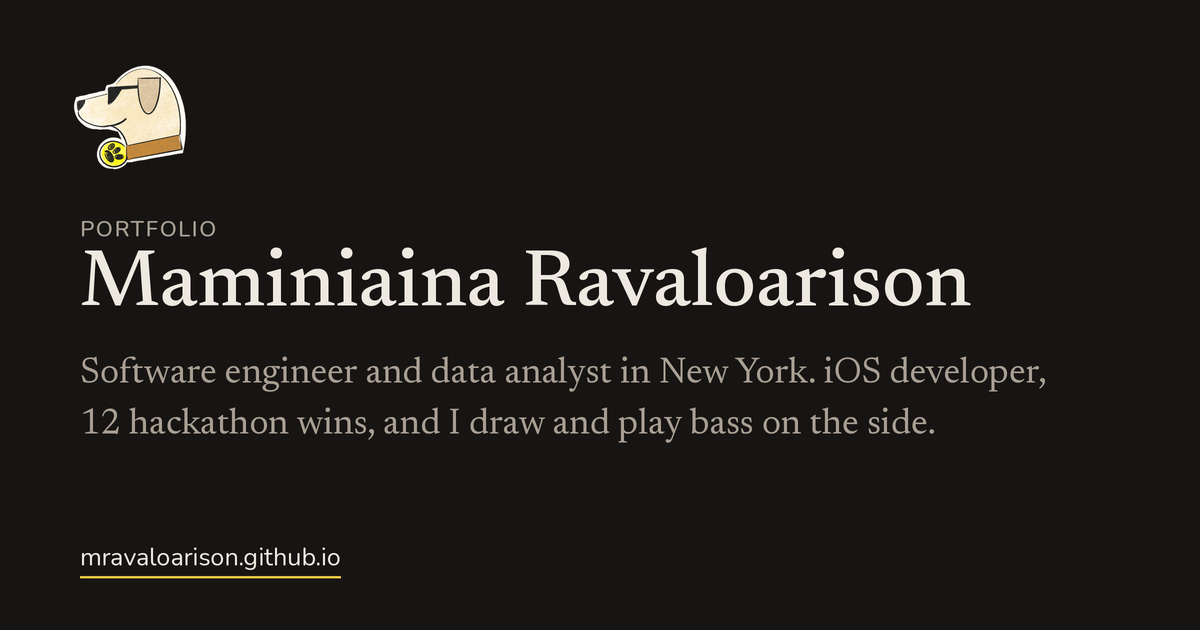
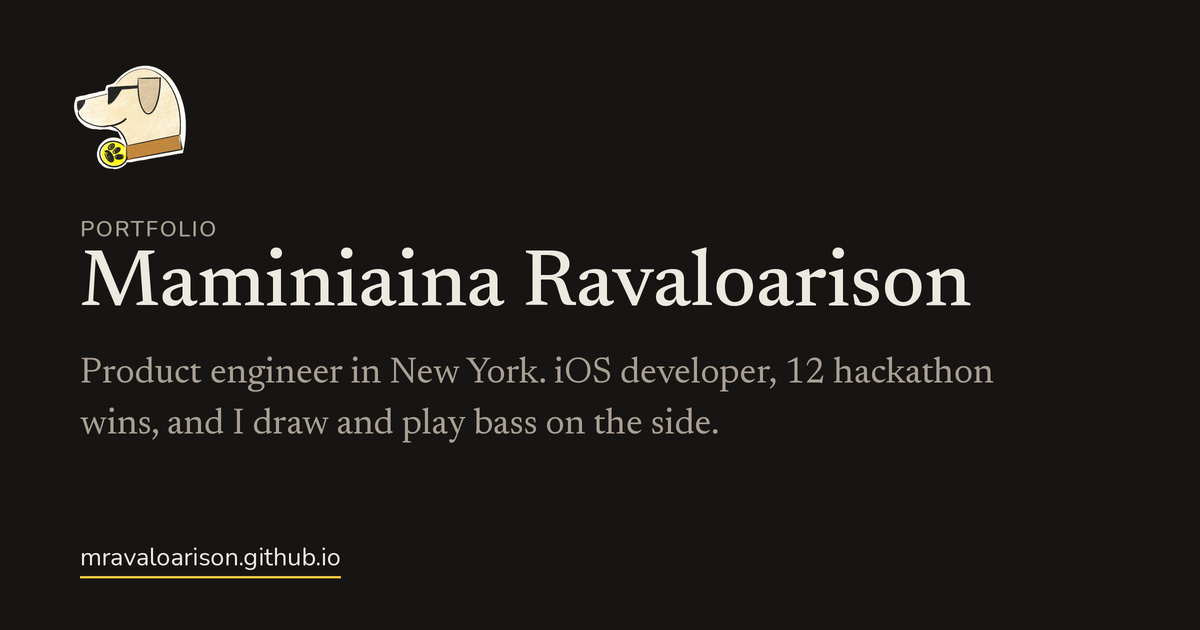
Title: Product engineer instead of software engineer and data analyst
The Short About line, the share card, the home and bio page titles and
descriptions, the site tagline and description, and the Person's jobTitle
and one-liner (JSON-LD, llms.txt) now say product engineer. The day job,
Junior Data Analyst at Monroe, stays under Experience and in the bio.

Claude-Session: https://claude.ai/code/session_01HxKcS5wnQzvR66vCB9wedF

Changed region(s): [[0.0617, 0.5429, 0.8633, 0.6937]]

diff --git a/scripts/make-icons.py b/scripts/make-icons.py
@@ -48,7 +48,7 @@ PAPER = (247, 242, 234)        # warm paper behind the iPhone icon
 OG = ROOT / "assets" / "social" / "og-default.png"
 FONTS = ROOT / "assets" / "fonts"
 CARD_NAME = "Maminiaina Ravaloarison"
-CARD_LINE = ("Software engineer and data analyst in New York. iOS developer, "
+CARD_LINE = ("Product engineer in New York. iOS developer, "
              "12 hackathon wins, and I draw and play bass on the side.")
 CARD_URL = "mravaloarison.github.io"
 # the site's colours (--bg, --text, --text-secondary, --accent)

diff --git a/CLAUDE.md b/CLAUDE.md
@@ -8,7 +8,9 @@ before making changes and follow it over your own defaults.
 
 - **Full name:** Maminiaina Ravaloarison
 - **Display name:** Maminiaina Ravaloarison (goes by Mami)
-- **Role:** Software Engineer (currently Junior Data Analyst, Monroe University)
+- **Role:** Product Engineer (Mami's title since November 2026, in place of
+  "software engineer and data analyst"; the day job is still Junior Data
+  Analyst at Monroe University, under Experience and in the bio)
 - **Based:** New York, USA. From Madagascar.
 - **Links:** github.com/mravaloarison · linkedin.com/in/mravaloarison · devpost.com/mrava
 - **Email:** mravaloarison@gmail.com
@@ -124,9 +126,9 @@ for About, Blog and every page without its own): since November 2026 it's
 drawn by `make-icons.py` in the site's look, because Mami found the old
 card's font too far from the site's: dark `--bg`, the logo top left, a
 PORTFOLIO eyebrow in Nunito, the full name in Newsreader 500, then
-`CARD_LINE` in Newsreader (Mami's points: software engineer and data
-analyst, iOS developer, 12 hackathon wins, draws and plays bass on the
-side), and the address in Nunito with an accent underline. Edit `CARD_NAME`
+`CARD_LINE` in Newsreader (Mami's points: product engineer, iOS
+developer, 12 hackathon wins, draws and plays bass on the side), and the
+address in Nunito with an accent underline. Edit `CARD_NAME`
 / `CARD_LINE` in the script and run it to change the card.
 
 **Intro** (Mami's request, November 2026): the first page someone opens
@@ -395,10 +397,10 @@ Mami wants this serif for both):
 
 - **Short (`/`, `index.md`)**: the headline as the abstract: the share
   card's line (`CARD_LINE` in `make-icons.py`) plus where Mami's from and
-  what Mami's looking for now (Mami's request, November 2026): "Software
-  engineer and data analyst from Madagascar, based in New York. iOS
-  developer, 12 hackathon wins, and I draw and play bass on the side. Right
-  now I'm looking for master's programs with scholarships." The card keeps
+  what Mami's looking for now (Mami's request, November 2026): "Product
+  engineer from Madagascar, based in New York. iOS developer, 12 hackathon
+  wins, and I draw and play bass on the side. Right now I'm looking for
+  master's programs with scholarships." The card keeps
   the shorter line (it has room for three lines). Abstracts go through
   `smartify`, so apostrophes come out curly. Then the profile
   links (email, GitHub, LinkedIn, Devpost, Resume), the "Looking for" callout
@@ -720,7 +722,7 @@ linkable. Enforce all of these:
 ## SEO requirements
 
 The point of this site is that someone searching "Maminiaina Ravaloarison" or
-"Mami Ravaloarison software engineer" lands here, and that individual projects
+"Mami Ravaloarison product engineer" (or software engineer) lands here, and that individual projects
 and posts rank on their own.
 
 ### Plugins
@@ -760,9 +762,9 @@ country, extra topics) live under `profile:` in `_data/about.yml`.
 
 ```yaml
 title: Maminiaina Ravaloarison
-tagline: Software Engineer
+tagline: Product Engineer
 description: >-
-    Maminiaina "Mami" Ravaloarison — Software Engineer in New York.
+    Maminiaina "Mami" Ravaloarison — Product Engineer in New York.
     Projects, writing, and drawings.
 url: https://mravaloarison.github.io
 author:

diff --git a/index.md b/index.md
@@ -1,7 +1,7 @@
 ---
 layout: default
-title: Maminiaina "Mami" Ravaloarison — Software Engineer
-description: Maminiaina "Mami" Ravaloarison is a Software Engineer from Madagascar and 12-time hackathon winner, now a Junior Data Analyst in New York.
+title: Maminiaina "Mami" Ravaloarison — Product Engineer
+description: Maminiaina "Mami" Ravaloarison is a Product Engineer from Madagascar and 12-time hackathon winner, based in New York.
 homepage: true
 seo:
   type: Person

diff --git a/bio.md b/bio.md
@@ -1,7 +1,7 @@
 ---
 layout: default
 title: Full bio
-description: Full bio of Maminiaina "Mami" Ravaloarison, a software engineer from Madagascar in New York who has won 12 hackathons, plays bass and draws.
+description: Full bio of Maminiaina "Mami" Ravaloarison, a product engineer from Madagascar in New York who has won 12 hackathons, plays bass and draws.
 permalink: /bio/
 ---
 {%- comment -%}
